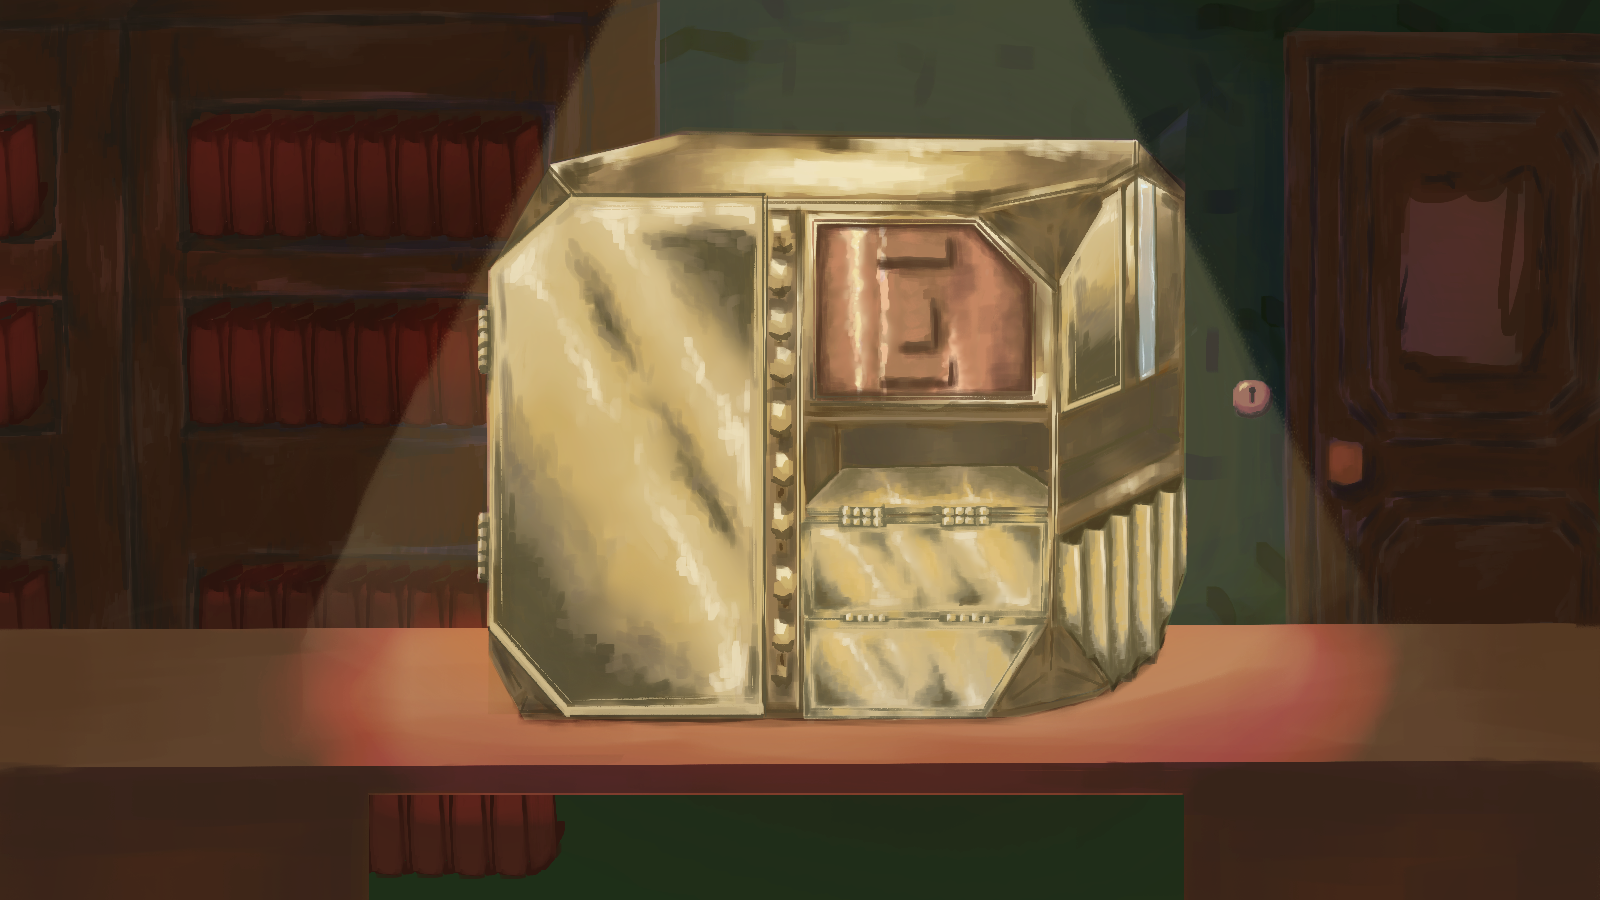
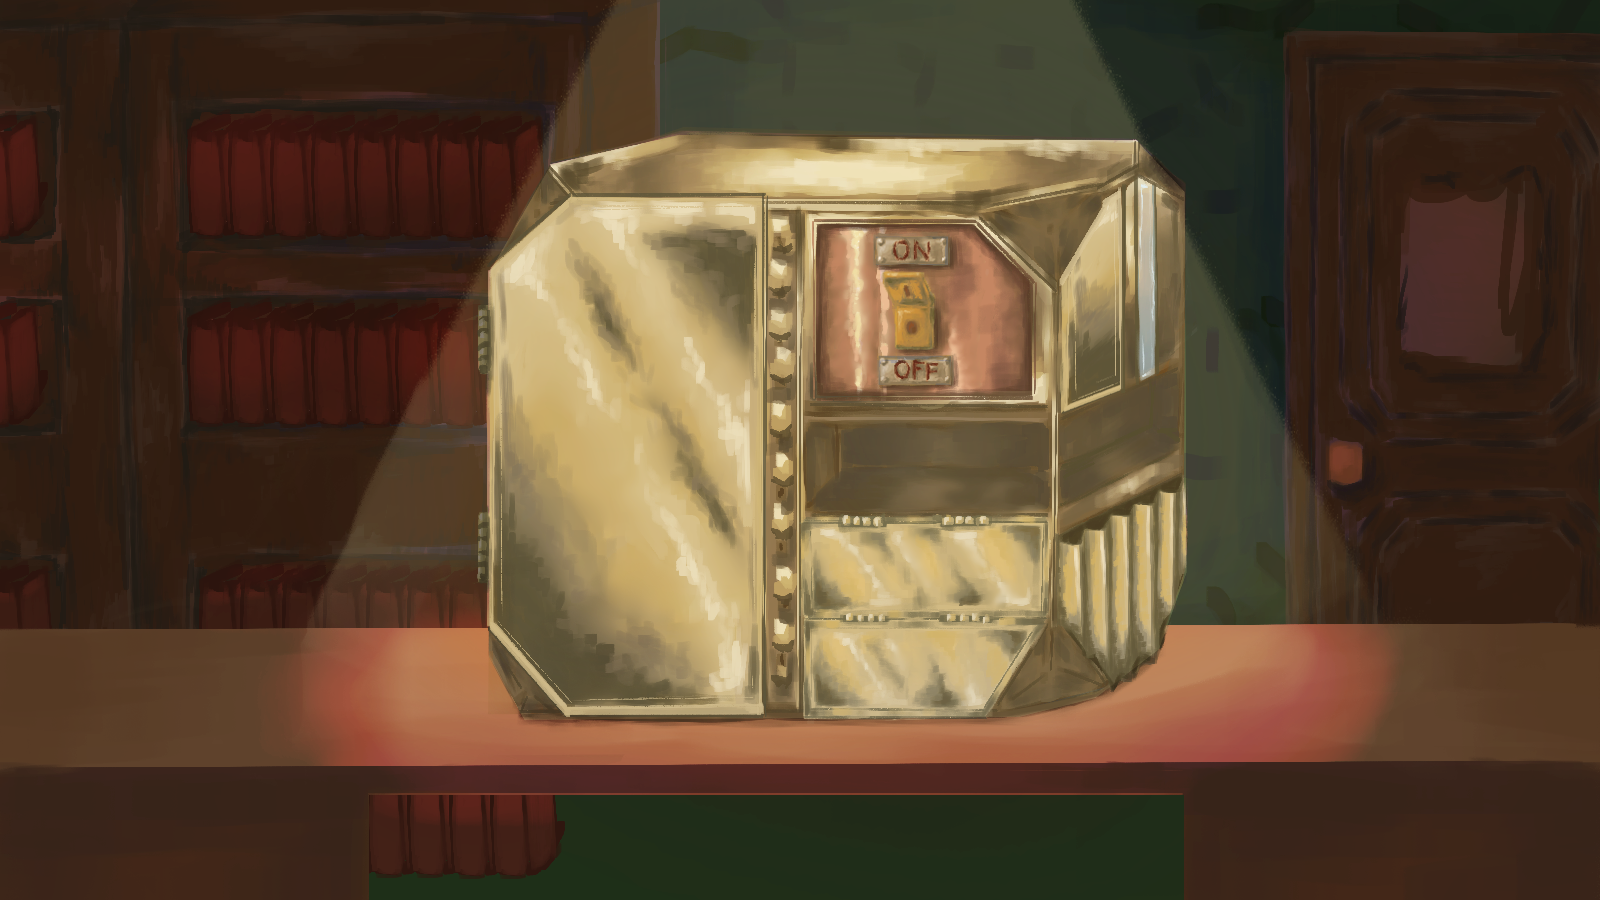
text more bottom

diff --git a/IHM/Control/DialogueControl.xaml b/IHM/Control/DialogueControl.xaml
@@ -16,7 +16,7 @@
                        FontSize="20"
                        FontFamily="Segoe Script"
                        TextWrapping="Wrap"
-                       Margin="40,600,40,20" 
+                       Margin="30,615,30,20" 
                        Width="1000"
                        VerticalAlignment="Top"/>
             <TextBlock x:Name="DialogueTextProgress"
@@ -24,7 +24,7 @@
                        FontSize="20"
                        FontFamily="Segoe Script"
                        TextWrapping="Wrap"
-                       Margin="40,600,40,20" 
+                       Margin="30,615,30,20" 
                        Width="1000"
                        VerticalAlignment="Top"/>
         </Grid>    
